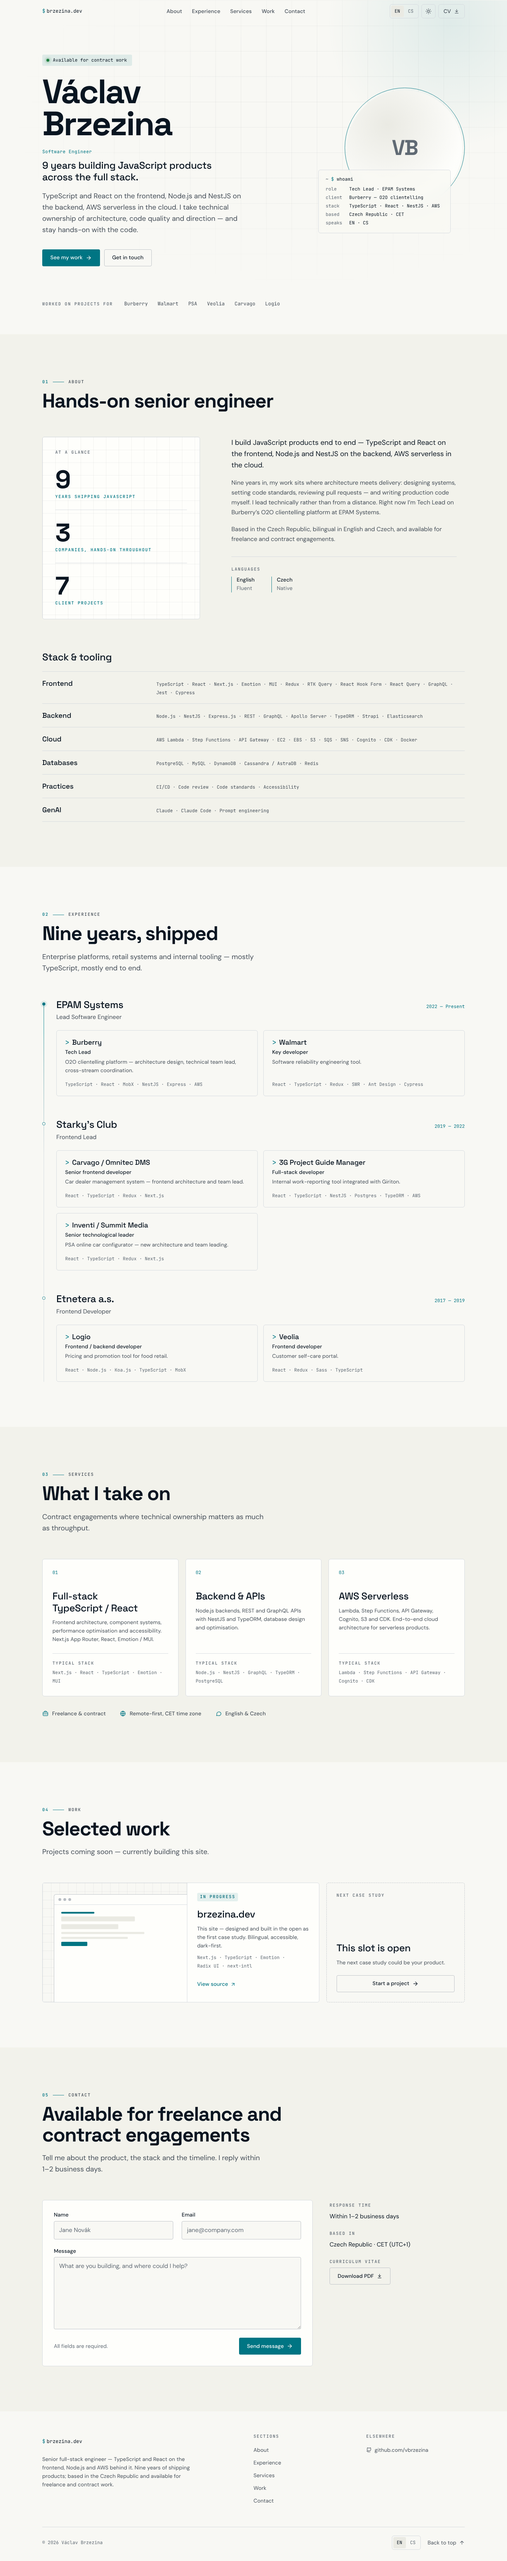
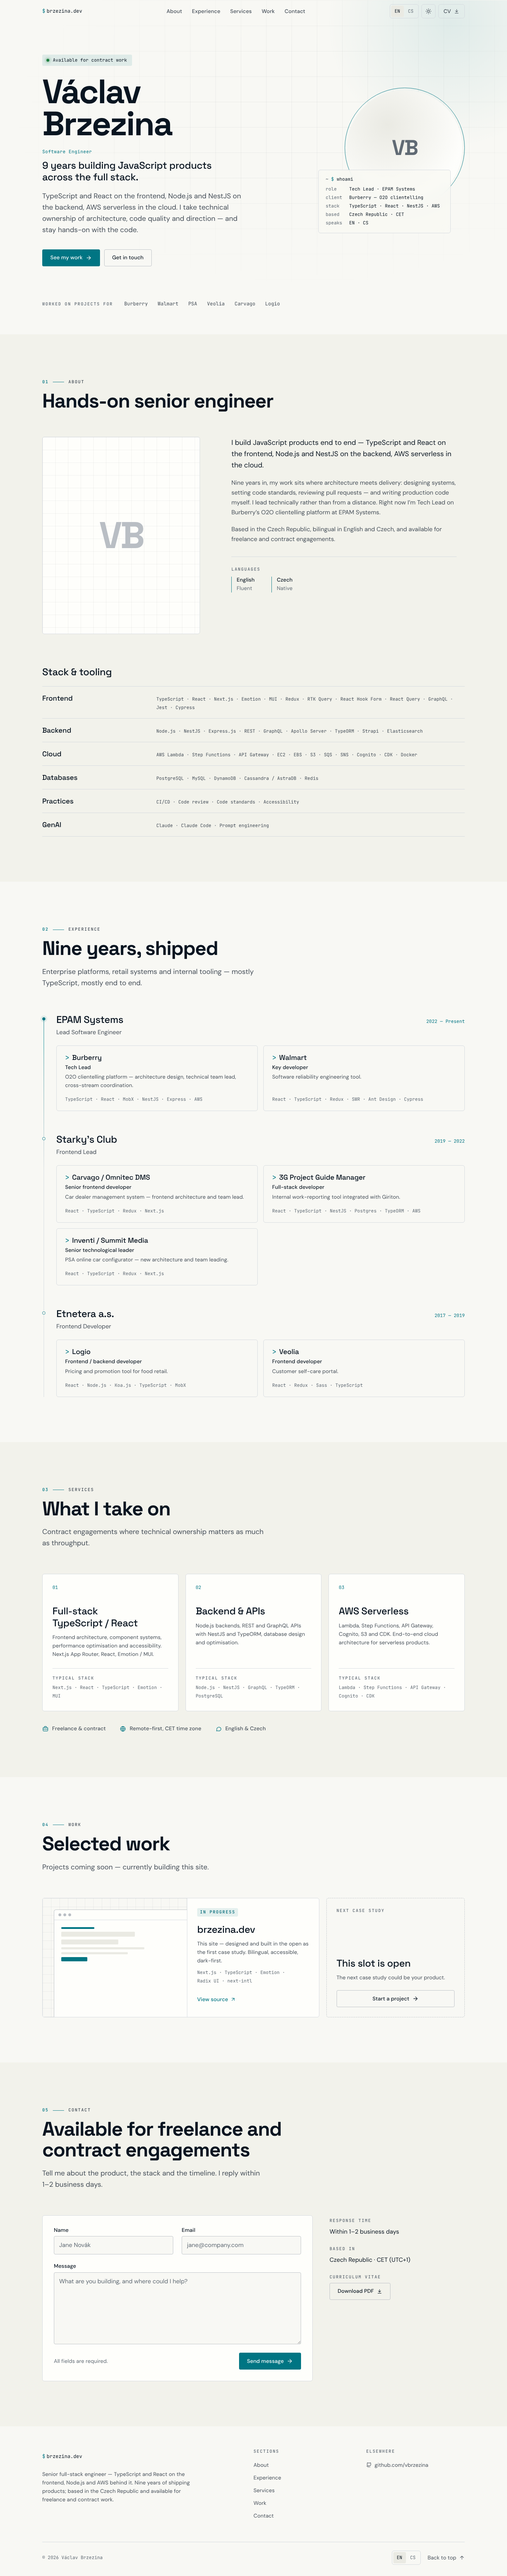
revert(ui): restore About photo slot in place of the facts panel
The "At a glance" figures panel read as a dashboard widget and clashed
with the rest of the page. About goes back to a 4:5 photo slot, now
intended for a candid at-work shot different from the hero headshot.
Spec and case-study log record the wrong turn.

Claude-Session: https://claude.ai/code/session_013mW6ZWY6digWVBj5YtAxDN

diff --git a/src/components/sections/About.tsx b/src/components/sections/About.tsx
@@ -5,7 +5,6 @@ import { useTranslations } from 'next-intl'
 import { Container, Section } from '@/components/layout'
 import { Reveal } from '@/components/Reveal'
 import { SectionHeader, StackList } from '@/components/ui'
-import { EXPERIENCE } from '@/data/experience'
 import { LANGUAGE_IDS, SKILL_GROUPS } from '@/data/skills'
 import { gridBackdrop } from '@/styles/backdrop'
 import { type } from '@/styles/typography'
@@ -24,57 +23,25 @@ const BioGrid = styled.div`
   }
 `
 
-// Derived from the CV data so the figures can never drift from the Experience section.
-const CAREER_START = Math.min(...EXPERIENCE.map((e) => e.start))
-const FACTS = [
-  { id: 'years', value: new Date().getFullYear() - CAREER_START },
-  { id: 'companies', value: EXPERIENCE.length },
-  { id: 'projects', value: EXPERIENCE.reduce((n, e) => n + e.projects.length, 0) },
-] as const
-
-/** The hero carries the photo; this slot adds information instead of repeating a face. */
-const FactsPanel = styled.div`
-  display: flex;
-  flex-direction: column;
-  gap: 2rem;
+/** Rectangular 4:5 slot sized for the real photo that replaces it. */
+const Portrait = styled.div`
+  position: relative;
+  aspect-ratio: 4 / 5;
   max-width: 28rem;
-  padding: clamp(1.5rem, 1rem + 2vw, 2.25rem);
   border: 1px solid ${({ theme }) => theme.colors.border};
   border-radius: ${({ theme }) => theme.radius.md};
   background-color: ${({ theme }) => theme.colors.surface};
   ${gridBackdrop(36)}
-`
+  display: grid;
+  place-items: center;
+  overflow: hidden;
 
-const FactsLabel = styled.p`
-  ${type.monoEyebrow}
-  color: ${({ theme }) => theme.colors.fgTertiary};
-`
-
-const FactsList = styled.dl`
-  display: flex;
-  flex-direction: column;
-  gap: 1.75rem;
-
-  div {
-    display: flex;
-    flex-direction: column-reverse; /* number reads first; dt stays first in the DOM */
-    gap: 0.375rem;
-    padding-top: 1.75rem;
-    border-top: 1px solid ${({ theme }) => theme.colors.border};
-  }
-  div:first-of-type {
-    padding-top: 0;
-    border-top: none;
-  }
-  dd {
-    ${type.displayL}
-    font-size: clamp(3rem, 2.4rem + 2.4vw, 4.5rem);
-    line-height: 1;
-    color: ${({ theme }) => theme.colors.fg};
-  }
-  dt {
-    ${type.monoEyebrow}
-    color: ${({ theme }) => theme.colors.accent};
+  span {
+    font-family: ${({ theme }) => theme.fonts.display};
+    font-weight: 700;
+    font-size: clamp(4rem, 3rem + 4vw, 7rem);
+    letter-spacing: -0.05em;
+    color: ${({ theme }) => theme.colors.borderStrong};
   }
 `
 
@@ -175,17 +142,9 @@ export function About() {
 
         <BioGrid>
           <Reveal delay={80}>
-            <FactsPanel>
-              <FactsLabel>{t('facts.label')}</FactsLabel>
-              <FactsList>
-                {FACTS.map((fact) => (
-                  <div key={fact.id}>
-                    <dt>{t(`facts.${fact.id}`, { count: fact.value })}</dt>
-                    <dd>{fact.value}</dd>
-                  </div>
-                ))}
-              </FactsList>
-            </FactsPanel>
+            <Portrait role="img" aria-label={t('portraitLabel')}>
+              <span aria-hidden="true">VB</span>
+            </Portrait>
           </Reveal>
 
           <Reveal delay={160}>

diff --git a/docs/design/redesign-2026-10.md b/docs/design/redesign-2026-10.md
@@ -167,7 +167,7 @@ Only `transform` and `opacity` are animated for movement. No looping animation a
 - **Proof strip** (bottom of hero, no rule): `WORKED ON PROJECTS FOR` eyebrow + `Burberry · Walmart · PSA · Veolia · Carvago · Logio` in `monoBody`. Worded as *projects for* because these were clients of EPAM, Starky's Club and Etnetera, not direct engagements — the big names stay, the claim stays accurate.
 
 ### 01 About — "Hands-on senior engineer"
-- 5/7 split. Left: an **At a glance** panel (surface, grid texture) with three figures computed from `src/data/experience.ts` — years shipping (current year − earliest start), companies, client projects — big `displayL` numbers over accent mono labels, ICU-pluralised in EN/CS. The hero carries the one photo; this slot adds information instead of repeating a face (a second, candid photo can replace it later). Right: first paragraph in `bodyL` fg (the lede), then two `bodyM` fg-secondary paragraphs, then a languages `<dl>`: **English** Fluent · **Czech** Native.
+- 5/7 split. Left: 4:5 photo slot for a **candid shot at work** — deliberately different from the hero headshot (surface + grid texture + `VB` monogram as the placeholder, `role="img"` with a descriptive label). Right: first paragraph in `bodyL` fg (the lede), then two `bodyM` fg-secondary paragraphs, then a languages `<dl>`: **English** Fluent · **Czech** Native.
 - **Stack & tooling** (h3): a six-row table. Category in `titleM` on the left (3 cols), StackList on the right (9 cols), hairline between rows. Content from the brief: Frontend, Backend, Cloud, Databases, Practices, GenAI.
 
 ### 02 Experience — "Nine years, shipped"
@@ -219,5 +219,5 @@ Replace the three TBD cards with **real, honest content**:
 
 - **Contact submission backend** — the form POSTs JSON `{ name, email, message }` to `site.contactEndpoint` (`/api/contact`). The handler doesn't exist yet (tickets 08/10), so submissions currently show the error state — message kept, GitHub offered — never a fake success.
 - **CV file** — every CV link points at `/cv.pdf` with `download`; the PDF still needs adding to `public/`.
-- **Real photography** — the hero portrait is a 1:1 placeholder for a real headshot.
+- **Real photography** — two placeholders: a 1:1 headshot (hero) and a 4:5 candid at-work photo (About). Use two different photos.
 - **Figma parity** — finish the screens in the Figma file once MCP calls are available again (Pro plan or next month's quota).

diff --git a/.scratch/brzezina-dev-portfolio/case-study-log.md b/.scratch/brzezina-dev-portfolio/case-study-log.md
@@ -144,11 +144,12 @@ Running record of decisions, alternatives considered, and wrong turns for the br
 
 ---
 
-### 2026-10-12 — One photo, one place per link
+### 2026-10-12 — One place per link; About keeps a (second) photo
 
-**Decision:** Hero keeps the only photo; the About slot became an "At a glance" panel (years, companies, client projects) computed from `src/data/experience.ts`. GitHub appears only in the footer, the CV only in the nav and Contact, the theme toggle only in the header.
-**Alternatives considered:** A second (candid) photo in About; keeping GitHub + CV in both the Contact sidebar and the footer.
-**Why:** A second photo repeats identity; the slot works harder carrying information a skimmer wants. Deriving the figures from the CV data means they can't drift from the Experience section. The link duplication was visible on one screen (Contact sidebar directly above the footer) — the original brief already assigned GitHub to the footer and the CV to Contact, so it was resolved by following the brief.
+**Decision:** GitHub appears only in the footer, the CV only in the nav and Contact, the theme toggle only in the header. About keeps a 4:5 photo slot for a candid at-work shot, different from the hero headshot.
+**Alternatives considered:** Keeping GitHub + CV in both the Contact sidebar and the footer; replacing the About photo with an "At a glance" figures panel (years / companies / client projects computed from the CV data); a text-led About with no visual.
+**Why:** The link duplication was visible on one screen (Contact sidebar directly above the footer) — the original brief already assigned GitHub to the footer and the CV to Contact, so it was resolved by following the brief. For About, two *different* photos (headshot vs. at work) carry the human voice the brief asked for.
+**Wrong turn / lesson:** The figures panel was built and shipped, then reverted — a tall bordered box of giant numbers read as a dashboard widget, a different visual language from the rest of the page, sitting exactly where the eye expects a face. "Add information instead of repeating a face" was right in principle but wrong in form; asking with previews before the second attempt got to the answer in one step.
 
 ---
 
